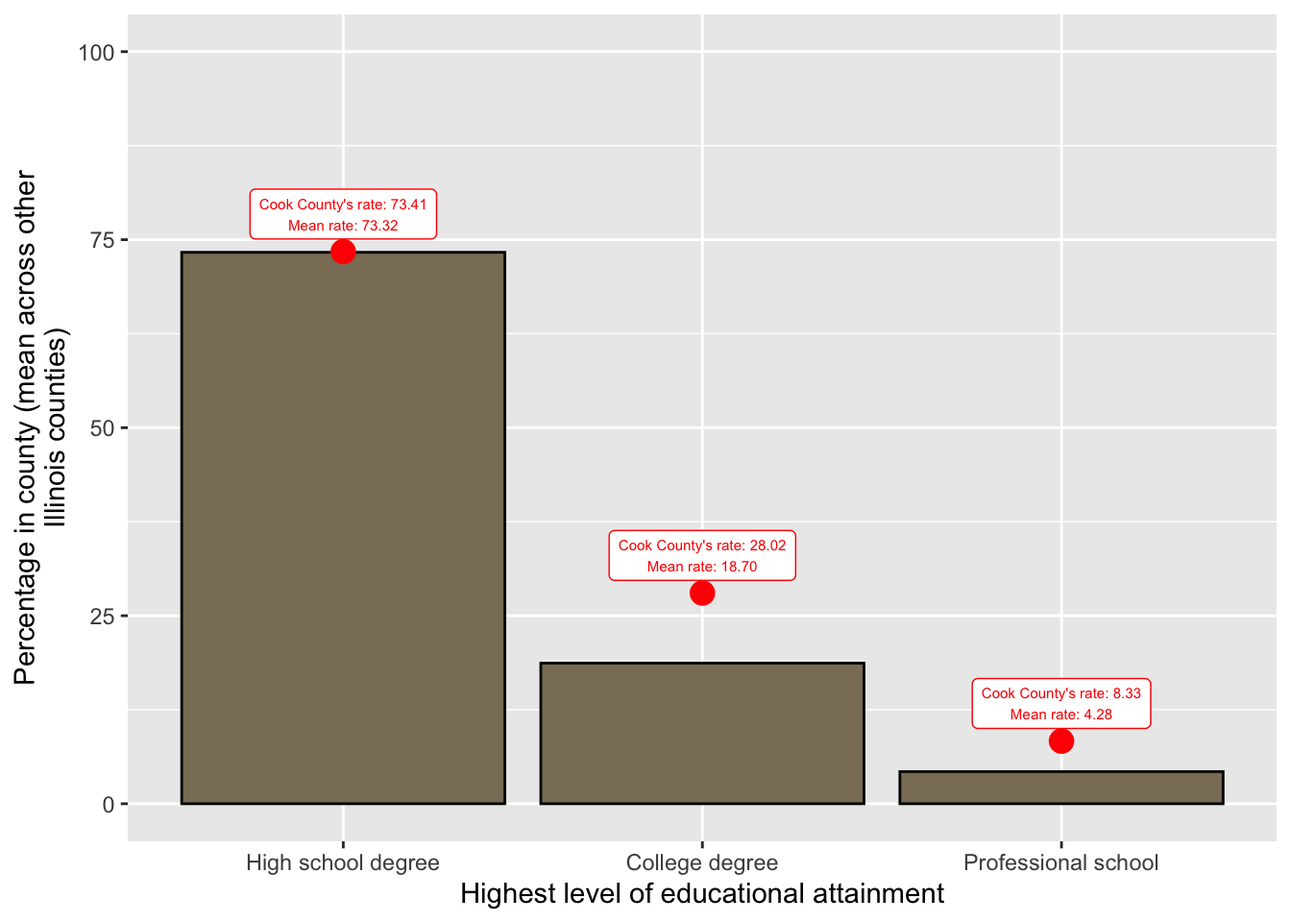
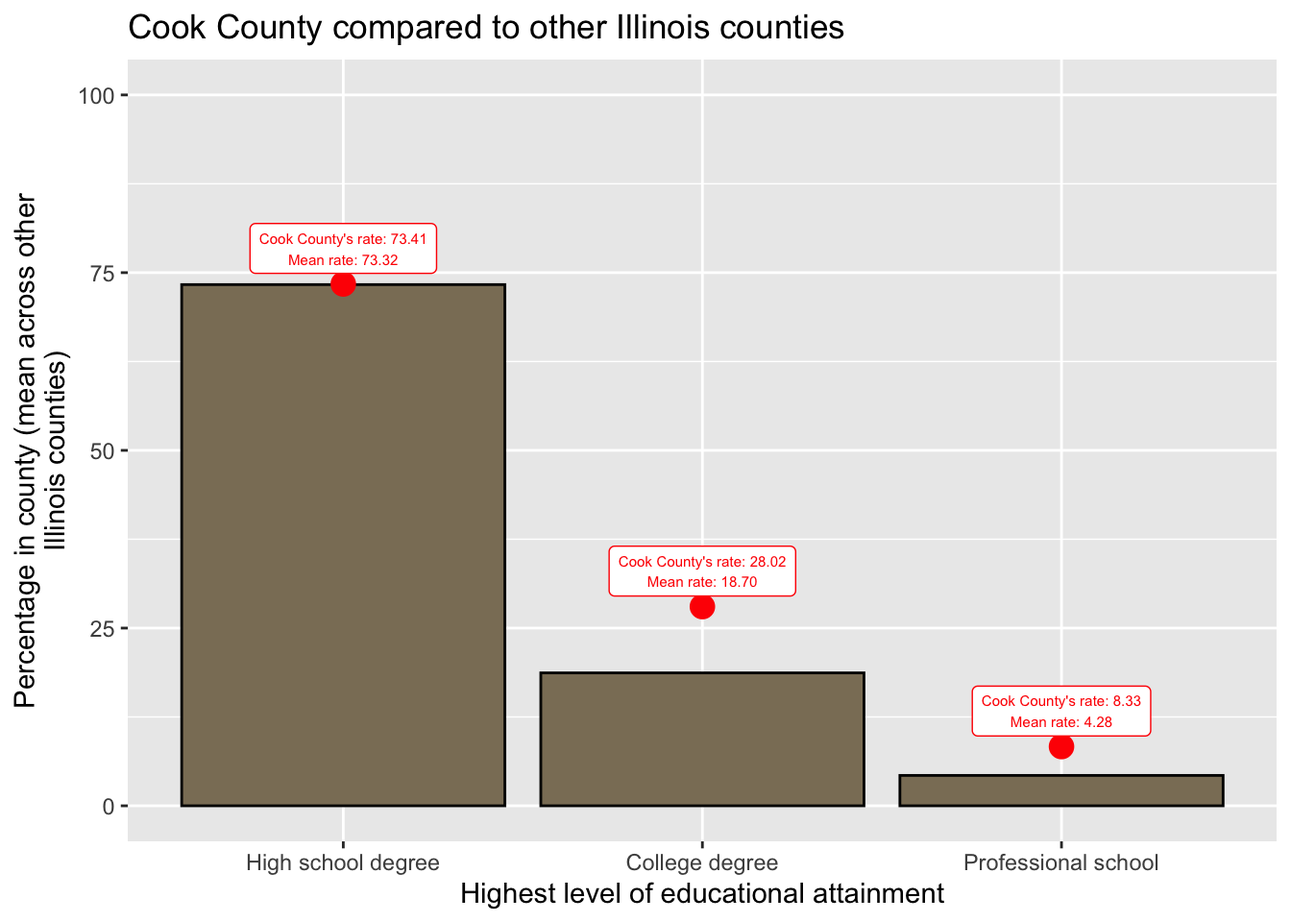
update plot title

diff --git a/fall_2024/activities/solutions/01_ggplot2automation_solutions.html b/fall_2024/activities/solutions/01_ggplot2automation_solutions.html
@@ -20,40 +20,6 @@ ul.task-list li input[type="checkbox"] {
   margin: 0 0.8em 0.2em -1em; /* quarto-specific, see https://github.com/quarto-dev/quarto-cli/issues/4556 */ 
   vertical-align: middle;
 }
-/* CSS for syntax highlighting */
-pre > code.sourceCode { white-space: pre; position: relative; }
-pre > code.sourceCode > span { line-height: 1.25; }
-pre > code.sourceCode > span:empty { height: 1.2em; }
-.sourceCode { overflow: visible; }
-code.sourceCode > span { color: inherit; text-decoration: inherit; }
-div.sourceCode { margin: 1em 0; }
-pre.sourceCode { margin: 0; }
-@media screen {
-div.sourceCode { overflow: auto; }
-}
-@media print {
-pre > code.sourceCode { white-space: pre-wrap; }
-pre > code.sourceCode > span { display: inline-block; text-indent: -5em; padding-left: 5em; }
-}
-pre.numberSource code
-  { counter-reset: source-line 0; }
-pre.numberSource code > span
-  { position: relative; left: -4em; counter-increment: source-line; }
-pre.numberSource code > span > a:first-child::before
-  { content: counter(source-line);
-    position: relative; left: -1em; text-align: right; vertical-align: baseline;
-    border: none; display: inline-block;
-    -webkit-touch-callout: none; -webkit-user-select: none;
-    -khtml-user-select: none; -moz-user-select: none;
-    -ms-user-select: none; user-select: none;
-    padding: 0 4px; width: 4em;
-  }
-pre.numberSource { margin-left: 3em;  padding-left: 4px; }
-div.sourceCode
-  {   }
-@media screen {
-pre > code.sourceCode > span > a:first-child::before { text-decoration: underline; }
-}
 </style>
 
 
@@ -98,11 +64,9 @@ pre > code.sourceCode > span > a:first-child::before { text-decoration: underlin
 
 <section id="automation" class="level1">
 <h1>Automation</h1>
-<p>In this activity, you’ll work with a group to produce the following:</p>
-<ol type="1">
-<li><p>A template that can be used to compare a focal county’s demographic statistics to other counties in that state</p></li>
-<li><p>Use that template to create a separate report for 4 distinct counties</p></li>
-</ol>
+<p>In this activity, you’ll work to produce the following:</p>
+<p>A template that can be used to compare a focal county’s demographic statistics to other counties in that state</p>
+<p>Use that template to create a separate report for 3 distinct counties</p>
 <section id="exercise-1-create-a-plot-for-a-single-county" class="level2">
 <h2 class="anchored" data-anchor-id="exercise-1-create-a-plot-for-a-single-county">Exercise 1: create a plot for a single county</h2>
 <ul>
@@ -117,58 +81,6 @@ pre > code.sourceCode > span > a:first-child::before { text-decoration: underlin
 <li>Adds a dot + label to that bar graph with the focal county’s own statistics (at the rough height of where that statistic falls along the <code>y axis</code>) compared to the mean value</li>
 </ul>
 <div class="cell">
-<div class="sourceCode cell-code" id="cb1"><pre class="sourceCode r code-with-copy"><code class="sourceCode r"><span id="cb1-1"><a href="#cb1-1" aria-hidden="true" tabindex="-1"></a><span class="fu">library</span>(tidyverse)</span>
-<span id="cb1-2"><a href="#cb1-2" aria-hidden="true" tabindex="-1"></a><span class="fu">library</span>(ggplot2)</span>
-<span id="cb1-3"><a href="#cb1-3" aria-hidden="true" tabindex="-1"></a><span class="fu">library</span>(reshape2)</span>
-<span id="cb1-4"><a href="#cb1-4" aria-hidden="true" tabindex="-1"></a></span>
-<span id="cb1-5"><a href="#cb1-5" aria-hidden="true" tabindex="-1"></a>stats_comparison <span class="ot">&lt;-</span> <span class="fu">rbind.data.frame</span>(midwest <span class="sc">%&gt;%</span></span>
-<span id="cb1-6"><a href="#cb1-6" aria-hidden="true" tabindex="-1"></a>            <span class="fu">filter</span>(state <span class="sc">==</span> <span class="st">"IL"</span> <span class="sc">&amp;</span> county <span class="sc">!=</span> <span class="st">"COOK"</span>) <span class="sc">%&gt;%</span></span>
-<span id="cb1-7"><a href="#cb1-7" aria-hidden="true" tabindex="-1"></a>            <span class="fu">summarise</span>(<span class="at">hsd =</span> <span class="fu">mean</span>(perchsd), <span class="at">college =</span>  <span class="fu">mean</span>(percollege), </span>
-<span id="cb1-8"><a href="#cb1-8" aria-hidden="true" tabindex="-1"></a>                      <span class="at">professional =</span> <span class="fu">mean</span>(percprof)) <span class="sc">%&gt;%</span></span>
-<span id="cb1-9"><a href="#cb1-9" aria-hidden="true" tabindex="-1"></a>            <span class="fu">mutate</span>(<span class="at">category =</span> <span class="st">"other"</span>),</span>
-<span id="cb1-10"><a href="#cb1-10" aria-hidden="true" tabindex="-1"></a>            midwest <span class="sc">%&gt;%</span></span>
-<span id="cb1-11"><a href="#cb1-11" aria-hidden="true" tabindex="-1"></a>            <span class="fu">filter</span>(state <span class="sc">==</span> <span class="st">"IL"</span> <span class="sc">&amp;</span> county <span class="sc">==</span> <span class="st">"COOK"</span>) <span class="sc">%&gt;%</span></span>
-<span id="cb1-12"><a href="#cb1-12" aria-hidden="true" tabindex="-1"></a>            <span class="fu">summarise</span>(<span class="at">hsd =</span> <span class="fu">mean</span>(perchsd), <span class="at">college =</span>  <span class="fu">mean</span>(percollege), </span>
-<span id="cb1-13"><a href="#cb1-13" aria-hidden="true" tabindex="-1"></a>                      <span class="at">professional =</span> <span class="fu">mean</span>(percprof)) <span class="sc">%&gt;%</span></span>
-<span id="cb1-14"><a href="#cb1-14" aria-hidden="true" tabindex="-1"></a>            <span class="fu">mutate</span>(<span class="at">category =</span> <span class="st">"COOK"</span>)) <span class="sc">%&gt;%</span></span>
-<span id="cb1-15"><a href="#cb1-15" aria-hidden="true" tabindex="-1"></a>            reshape2<span class="sc">::</span><span class="fu">melt</span>(., <span class="at">id.vars =</span> <span class="st">"category"</span>) <span class="sc">%&gt;%</span></span>
-<span id="cb1-16"><a href="#cb1-16" aria-hidden="true" tabindex="-1"></a>            <span class="fu">mutate</span>(<span class="at">variable_descriptive =</span> </span>
-<span id="cb1-17"><a href="#cb1-17" aria-hidden="true" tabindex="-1"></a>            <span class="fu">factor</span>(<span class="fu">case_when</span>(variable <span class="sc">==</span> <span class="st">"hsd"</span> <span class="sc">~</span> <span class="st">"High school degree"</span>,</span>
-<span id="cb1-18"><a href="#cb1-18" aria-hidden="true" tabindex="-1"></a>                      variable <span class="sc">==</span> <span class="st">"college"</span> <span class="sc">~</span> <span class="st">"College degree"</span>,</span>
-<span id="cb1-19"><a href="#cb1-19" aria-hidden="true" tabindex="-1"></a>                      variable <span class="sc">==</span> <span class="st">"professional"</span> <span class="sc">~</span> <span class="st">"Professional school"</span>),</span>
-<span id="cb1-20"><a href="#cb1-20" aria-hidden="true" tabindex="-1"></a>                <span class="at">levels =</span> <span class="fu">c</span>(<span class="st">"High school degree"</span>,</span>
-<span id="cb1-21"><a href="#cb1-21" aria-hidden="true" tabindex="-1"></a>                           <span class="st">"College degree"</span>,</span>
-<span id="cb1-22"><a href="#cb1-22" aria-hidden="true" tabindex="-1"></a>                           <span class="st">"Professional school"</span>),</span>
-<span id="cb1-23"><a href="#cb1-23" aria-hidden="true" tabindex="-1"></a>                <span class="at">ordered =</span> <span class="cn">TRUE</span>)) </span>
-<span id="cb1-24"><a href="#cb1-24" aria-hidden="true" tabindex="-1"></a></span>
-<span id="cb1-25"><a href="#cb1-25" aria-hidden="true" tabindex="-1"></a>stats_toplot <span class="ot">&lt;-</span> stats_comparison <span class="sc">%&gt;%</span></span>
-<span id="cb1-26"><a href="#cb1-26" aria-hidden="true" tabindex="-1"></a>          <span class="fu">left_join</span>(stats_comparison <span class="sc">%&gt;%</span> <span class="fu">filter</span>(category <span class="sc">==</span> <span class="st">"other"</span>) </span>
-<span id="cb1-27"><a href="#cb1-27" aria-hidden="true" tabindex="-1"></a>                  <span class="sc">%&gt;%</span> <span class="fu">rename</span>(<span class="at">mean_value =</span> value) <span class="sc">%&gt;%</span></span>
-<span id="cb1-28"><a href="#cb1-28" aria-hidden="true" tabindex="-1"></a>                  <span class="fu">select</span>(variable, mean_value),</span>
-<span id="cb1-29"><a href="#cb1-29" aria-hidden="true" tabindex="-1"></a>                  <span class="at">by =</span> <span class="st">"variable"</span>) </span>
-<span id="cb1-30"><a href="#cb1-30" aria-hidden="true" tabindex="-1"></a></span>
-<span id="cb1-31"><a href="#cb1-31" aria-hidden="true" tabindex="-1"></a>            </span>
-<span id="cb1-32"><a href="#cb1-32" aria-hidden="true" tabindex="-1"></a><span class="fu">ggplot</span>(stats_toplot <span class="sc">%&gt;%</span> <span class="fu">filter</span>(category <span class="sc">==</span> <span class="st">"other"</span>), </span>
-<span id="cb1-33"><a href="#cb1-33" aria-hidden="true" tabindex="-1"></a>       <span class="fu">aes</span>(<span class="at">x =</span> variable_descriptive, </span>
-<span id="cb1-34"><a href="#cb1-34" aria-hidden="true" tabindex="-1"></a>                            <span class="at">y =</span> value)) <span class="sc">+</span></span>
-<span id="cb1-35"><a href="#cb1-35" aria-hidden="true" tabindex="-1"></a>  <span class="fu">geom_bar</span>(<span class="at">stat =</span> <span class="st">"identity"</span>, <span class="at">color =</span> <span class="st">"black"</span>, </span>
-<span id="cb1-36"><a href="#cb1-36" aria-hidden="true" tabindex="-1"></a>           <span class="at">fill =</span> <span class="st">"wheat4"</span>) <span class="sc">+</span></span>
-<span id="cb1-37"><a href="#cb1-37" aria-hidden="true" tabindex="-1"></a>  <span class="fu">xlab</span>(<span class="st">"Highest level of educational attainment"</span>) <span class="sc">+</span></span>
-<span id="cb1-38"><a href="#cb1-38" aria-hidden="true" tabindex="-1"></a>  <span class="fu">ylab</span>(<span class="st">"Percentage in county (mean across other</span><span class="sc">\n</span><span class="st">Illinois counties)"</span>) <span class="sc">+</span></span>
-<span id="cb1-39"><a href="#cb1-39" aria-hidden="true" tabindex="-1"></a>  <span class="fu">geom_point</span>(<span class="at">data =</span> stats_toplot <span class="sc">%&gt;%</span> <span class="fu">filter</span>(category <span class="sc">!=</span> <span class="st">"other"</span>),</span>
-<span id="cb1-40"><a href="#cb1-40" aria-hidden="true" tabindex="-1"></a>             <span class="fu">aes</span>(<span class="at">x =</span> variable_descriptive, </span>
-<span id="cb1-41"><a href="#cb1-41" aria-hidden="true" tabindex="-1"></a>                 <span class="at">y =</span> value),</span>
-<span id="cb1-42"><a href="#cb1-42" aria-hidden="true" tabindex="-1"></a>             <span class="at">color =</span> <span class="st">"red"</span>, <span class="at">size =</span> <span class="dv">4</span>) <span class="sc">+</span></span>
-<span id="cb1-43"><a href="#cb1-43" aria-hidden="true" tabindex="-1"></a>  <span class="fu">geom_label</span>(<span class="at">data =</span> stats_toplot <span class="sc">%&gt;%</span> <span class="fu">filter</span>(category <span class="sc">!=</span> <span class="st">"other"</span>),</span>
-<span id="cb1-44"><a href="#cb1-44" aria-hidden="true" tabindex="-1"></a>             <span class="fu">aes</span>(<span class="at">x =</span> variable_descriptive, </span>
-<span id="cb1-45"><a href="#cb1-45" aria-hidden="true" tabindex="-1"></a>                 <span class="at">y =</span> value, </span>
-<span id="cb1-46"><a href="#cb1-46" aria-hidden="true" tabindex="-1"></a>                 <span class="at">label =</span> <span class="fu">sprintf</span>(<span class="st">"Cook County's rate: %.2f</span><span class="sc">\n</span><span class="st">Mean rate: %.2f"</span>,</span>
-<span id="cb1-47"><a href="#cb1-47" aria-hidden="true" tabindex="-1"></a>                                 value, </span>
-<span id="cb1-48"><a href="#cb1-48" aria-hidden="true" tabindex="-1"></a>                                 mean_value)),</span>
-<span id="cb1-49"><a href="#cb1-49" aria-hidden="true" tabindex="-1"></a>          <span class="at">color =</span> <span class="st">"red"</span>,</span>
-<span id="cb1-50"><a href="#cb1-50" aria-hidden="true" tabindex="-1"></a>          <span class="at">size =</span> <span class="dv">2</span>,</span>
-<span id="cb1-51"><a href="#cb1-51" aria-hidden="true" tabindex="-1"></a>          <span class="at">nudge_y =</span> <span class="dv">5</span>) <span class="sc">+</span></span>
-<span id="cb1-52"><a href="#cb1-52" aria-hidden="true" tabindex="-1"></a>  <span class="fu">ylim</span>(<span class="dv">0</span>, <span class="dv">100</span>)</span></code><button title="Copy to Clipboard" class="code-copy-button"><i class="bi"></i></button></pre></div>
 <div class="cell-output-display">
 <div>
 <figure class="figure">
@@ -182,67 +94,6 @@ pre > code.sourceCode > span > a:first-child::before { text-decoration: underlin
 <h2 class="anchored" data-anchor-id="exercise-2-generalize-to-create-a-county-comparison-function">Exercise 2: generalize to create a county comparison function</h2>
 <p>Write a function that generalizes the plot from exercise 1 by: - Taking in two parameters: county + state - Finding the remaining counties in that state - Creating the same plot as above (making sure to label the county-specific rate appropriately with the county’s name) - Test the function on a few different counties from different states</p>
 <div class="cell">
-<div class="sourceCode cell-code" id="cb2"><pre class="sourceCode r code-with-copy"><code class="sourceCode r"><span id="cb2-1"><a href="#cb2-1" aria-hidden="true" tabindex="-1"></a><span class="fu">library</span>(tidyverse)</span>
-<span id="cb2-2"><a href="#cb2-2" aria-hidden="true" tabindex="-1"></a><span class="fu">library</span>(ggplot2)</span>
-<span id="cb2-3"><a href="#cb2-3" aria-hidden="true" tabindex="-1"></a><span class="fu">library</span>(stringr)</span>
-<span id="cb2-4"><a href="#cb2-4" aria-hidden="true" tabindex="-1"></a></span>
-<span id="cb2-5"><a href="#cb2-5" aria-hidden="true" tabindex="-1"></a>comparison_plot <span class="ot">&lt;-</span> <span class="cf">function</span>(state_name, county_name){</span>
-<span id="cb2-6"><a href="#cb2-6" aria-hidden="true" tabindex="-1"></a>  </span>
-<span id="cb2-7"><a href="#cb2-7" aria-hidden="true" tabindex="-1"></a>  stats_comparison <span class="ot">&lt;-</span> <span class="fu">rbind.data.frame</span>(midwest <span class="sc">%&gt;%</span></span>
-<span id="cb2-8"><a href="#cb2-8" aria-hidden="true" tabindex="-1"></a>            <span class="fu">filter</span>(state <span class="sc">==</span> state_name <span class="sc">&amp;</span> county <span class="sc">!=</span> county_name) <span class="sc">%&gt;%</span></span>
-<span id="cb2-9"><a href="#cb2-9" aria-hidden="true" tabindex="-1"></a>            <span class="fu">summarise</span>(<span class="at">hsd =</span> <span class="fu">mean</span>(perchsd), <span class="at">college =</span>  <span class="fu">mean</span>(percollege), </span>
-<span id="cb2-10"><a href="#cb2-10" aria-hidden="true" tabindex="-1"></a>                      <span class="at">professional =</span> <span class="fu">mean</span>(percprof)) <span class="sc">%&gt;%</span></span>
-<span id="cb2-11"><a href="#cb2-11" aria-hidden="true" tabindex="-1"></a>            <span class="fu">mutate</span>(<span class="at">category =</span> <span class="st">"other"</span>),</span>
-<span id="cb2-12"><a href="#cb2-12" aria-hidden="true" tabindex="-1"></a>            midwest <span class="sc">%&gt;%</span></span>
-<span id="cb2-13"><a href="#cb2-13" aria-hidden="true" tabindex="-1"></a>            <span class="fu">filter</span>(state <span class="sc">==</span> state_name <span class="sc">&amp;</span> county <span class="sc">==</span> county_name) <span class="sc">%&gt;%</span></span>
-<span id="cb2-14"><a href="#cb2-14" aria-hidden="true" tabindex="-1"></a>            <span class="fu">summarise</span>(<span class="at">hsd =</span> <span class="fu">mean</span>(perchsd), <span class="at">college =</span>  <span class="fu">mean</span>(percollege), </span>
-<span id="cb2-15"><a href="#cb2-15" aria-hidden="true" tabindex="-1"></a>                      <span class="at">professional =</span> <span class="fu">mean</span>(percprof)) <span class="sc">%&gt;%</span></span>
-<span id="cb2-16"><a href="#cb2-16" aria-hidden="true" tabindex="-1"></a>            <span class="fu">mutate</span>(<span class="at">category =</span> county_name)) <span class="sc">%&gt;%</span></span>
-<span id="cb2-17"><a href="#cb2-17" aria-hidden="true" tabindex="-1"></a>            reshape2<span class="sc">::</span><span class="fu">melt</span>(., <span class="at">id.vars =</span> <span class="st">"category"</span>) <span class="sc">%&gt;%</span></span>
-<span id="cb2-18"><a href="#cb2-18" aria-hidden="true" tabindex="-1"></a>            <span class="fu">mutate</span>(<span class="at">variable_descriptive =</span> </span>
-<span id="cb2-19"><a href="#cb2-19" aria-hidden="true" tabindex="-1"></a>            <span class="fu">factor</span>(<span class="fu">case_when</span>(variable <span class="sc">==</span> <span class="st">"hsd"</span> <span class="sc">~</span> <span class="st">"High school degree"</span>,</span>
-<span id="cb2-20"><a href="#cb2-20" aria-hidden="true" tabindex="-1"></a>                      variable <span class="sc">==</span> <span class="st">"college"</span> <span class="sc">~</span> <span class="st">"College degree"</span>,</span>
-<span id="cb2-21"><a href="#cb2-21" aria-hidden="true" tabindex="-1"></a>                      variable <span class="sc">==</span> <span class="st">"professional"</span> <span class="sc">~</span> <span class="st">"Professional school"</span>),</span>
-<span id="cb2-22"><a href="#cb2-22" aria-hidden="true" tabindex="-1"></a>                <span class="at">levels =</span> <span class="fu">c</span>(<span class="st">"High school degree"</span>,</span>
-<span id="cb2-23"><a href="#cb2-23" aria-hidden="true" tabindex="-1"></a>                           <span class="st">"College degree"</span>,</span>
-<span id="cb2-24"><a href="#cb2-24" aria-hidden="true" tabindex="-1"></a>                           <span class="st">"Professional school"</span>),</span>
-<span id="cb2-25"><a href="#cb2-25" aria-hidden="true" tabindex="-1"></a>                <span class="at">ordered =</span> <span class="cn">TRUE</span>)) </span>
-<span id="cb2-26"><a href="#cb2-26" aria-hidden="true" tabindex="-1"></a>  </span>
-<span id="cb2-27"><a href="#cb2-27" aria-hidden="true" tabindex="-1"></a>  stats_toplot <span class="ot">&lt;-</span> stats_comparison <span class="sc">%&gt;%</span></span>
-<span id="cb2-28"><a href="#cb2-28" aria-hidden="true" tabindex="-1"></a>          <span class="fu">left_join</span>(stats_comparison <span class="sc">%&gt;%</span> <span class="fu">filter</span>(category <span class="sc">==</span> <span class="st">"other"</span>) </span>
-<span id="cb2-29"><a href="#cb2-29" aria-hidden="true" tabindex="-1"></a>                  <span class="sc">%&gt;%</span> <span class="fu">rename</span>(<span class="at">mean_value =</span> value) <span class="sc">%&gt;%</span></span>
-<span id="cb2-30"><a href="#cb2-30" aria-hidden="true" tabindex="-1"></a>                  <span class="fu">select</span>(variable, mean_value),</span>
-<span id="cb2-31"><a href="#cb2-31" aria-hidden="true" tabindex="-1"></a>                  <span class="at">by =</span> <span class="st">"variable"</span>) </span>
-<span id="cb2-32"><a href="#cb2-32" aria-hidden="true" tabindex="-1"></a>  </span>
-<span id="cb2-33"><a href="#cb2-33" aria-hidden="true" tabindex="-1"></a>  p <span class="ot">&lt;-</span> <span class="fu">ggplot</span>(stats_toplot <span class="sc">%&gt;%</span> <span class="fu">filter</span>(category <span class="sc">==</span> <span class="st">"other"</span>), </span>
-<span id="cb2-34"><a href="#cb2-34" aria-hidden="true" tabindex="-1"></a>       <span class="fu">aes</span>(<span class="at">x =</span> variable_descriptive, </span>
-<span id="cb2-35"><a href="#cb2-35" aria-hidden="true" tabindex="-1"></a>                            <span class="at">y =</span> value)) <span class="sc">+</span></span>
-<span id="cb2-36"><a href="#cb2-36" aria-hidden="true" tabindex="-1"></a>  <span class="fu">geom_bar</span>(<span class="at">stat =</span> <span class="st">"identity"</span>, <span class="at">color =</span> <span class="st">"black"</span>, </span>
-<span id="cb2-37"><a href="#cb2-37" aria-hidden="true" tabindex="-1"></a>           <span class="at">fill =</span> <span class="st">"wheat4"</span>) <span class="sc">+</span></span>
-<span id="cb2-38"><a href="#cb2-38" aria-hidden="true" tabindex="-1"></a>  <span class="fu">xlab</span>(<span class="st">"Highest level of educational attainment"</span>) <span class="sc">+</span></span>
-<span id="cb2-39"><a href="#cb2-39" aria-hidden="true" tabindex="-1"></a>  <span class="fu">ylab</span>(<span class="fu">sprintf</span>(<span class="st">"Percentage in county (mean across other</span><span class="sc">\n</span><span class="st">%s counties)"</span>,</span>
-<span id="cb2-40"><a href="#cb2-40" aria-hidden="true" tabindex="-1"></a>      state.name[state.abb <span class="sc">==</span> state_name])) <span class="sc">+</span></span>
-<span id="cb2-41"><a href="#cb2-41" aria-hidden="true" tabindex="-1"></a>  <span class="fu">geom_point</span>(<span class="at">data =</span> stats_toplot <span class="sc">%&gt;%</span> <span class="fu">filter</span>(category <span class="sc">!=</span> <span class="st">"other"</span>),</span>
-<span id="cb2-42"><a href="#cb2-42" aria-hidden="true" tabindex="-1"></a>             <span class="fu">aes</span>(<span class="at">x =</span> variable_descriptive, </span>
-<span id="cb2-43"><a href="#cb2-43" aria-hidden="true" tabindex="-1"></a>                 <span class="at">y =</span> value),</span>
-<span id="cb2-44"><a href="#cb2-44" aria-hidden="true" tabindex="-1"></a>             <span class="at">color =</span> <span class="st">"red"</span>, <span class="at">size =</span> <span class="dv">4</span>) <span class="sc">+</span></span>
-<span id="cb2-45"><a href="#cb2-45" aria-hidden="true" tabindex="-1"></a>  <span class="fu">geom_label</span>(<span class="at">data =</span> stats_toplot <span class="sc">%&gt;%</span> <span class="fu">filter</span>(category <span class="sc">!=</span> <span class="st">"other"</span>),</span>
-<span id="cb2-46"><a href="#cb2-46" aria-hidden="true" tabindex="-1"></a>             <span class="fu">aes</span>(<span class="at">x =</span> variable_descriptive, </span>
-<span id="cb2-47"><a href="#cb2-47" aria-hidden="true" tabindex="-1"></a>                 <span class="at">y =</span> value, </span>
-<span id="cb2-48"><a href="#cb2-48" aria-hidden="true" tabindex="-1"></a>                 <span class="at">label =</span> <span class="fu">sprintf</span>(<span class="st">"%s county's rate: %.2f</span><span class="sc">\n</span><span class="st">Mean rate: %.2f"</span>,</span>
-<span id="cb2-49"><a href="#cb2-49" aria-hidden="true" tabindex="-1"></a>                                 <span class="fu">str_to_title</span>(county_name),</span>
-<span id="cb2-50"><a href="#cb2-50" aria-hidden="true" tabindex="-1"></a>                                 value, </span>
-<span id="cb2-51"><a href="#cb2-51" aria-hidden="true" tabindex="-1"></a>                                 mean_value)),</span>
-<span id="cb2-52"><a href="#cb2-52" aria-hidden="true" tabindex="-1"></a>          <span class="at">color =</span> <span class="st">"red"</span>,</span>
-<span id="cb2-53"><a href="#cb2-53" aria-hidden="true" tabindex="-1"></a>          <span class="at">size =</span> <span class="dv">2</span>,</span>
-<span id="cb2-54"><a href="#cb2-54" aria-hidden="true" tabindex="-1"></a>          <span class="at">nudge_y =</span> <span class="dv">5</span>) <span class="sc">+</span></span>
-<span id="cb2-55"><a href="#cb2-55" aria-hidden="true" tabindex="-1"></a>  <span class="fu">ylim</span>(<span class="dv">0</span>, <span class="dv">100</span>)</span>
-<span id="cb2-56"><a href="#cb2-56" aria-hidden="true" tabindex="-1"></a>  </span>
-<span id="cb2-57"><a href="#cb2-57" aria-hidden="true" tabindex="-1"></a>  <span class="fu">return</span>(p)</span>
-<span id="cb2-58"><a href="#cb2-58" aria-hidden="true" tabindex="-1"></a>  </span>
-<span id="cb2-59"><a href="#cb2-59" aria-hidden="true" tabindex="-1"></a>}</span>
-<span id="cb2-60"><a href="#cb2-60" aria-hidden="true" tabindex="-1"></a></span>
-<span id="cb2-61"><a href="#cb2-61" aria-hidden="true" tabindex="-1"></a><span class="fu">comparison_plot</span>(<span class="at">state_name =</span> <span class="st">"IL"</span>, <span class="at">county_name =</span> <span class="st">"COOK"</span>)</span></code><button title="Copy to Clipboard" class="code-copy-button"><i class="bi"></i></button></pre></div>
 <div class="cell-output-display">
 <div>
 <figure class="figure">
@@ -250,7 +101,6 @@ pre > code.sourceCode > span > a:first-child::before { text-decoration: underlin
 </figure>
 </div>
 </div>
-<div class="sourceCode cell-code" id="cb3"><pre class="sourceCode r code-with-copy"><code class="sourceCode r"><span id="cb3-1"><a href="#cb3-1" aria-hidden="true" tabindex="-1"></a><span class="fu">comparison_plot</span>(<span class="at">state_name =</span> <span class="st">"WI"</span>, <span class="at">county_name =</span> <span class="st">"DANE"</span>)</span></code><button title="Copy to Clipboard" class="code-copy-button"><i class="bi"></i></button></pre></div>
 <div class="cell-output-display">
 <div>
 <figure class="figure">
@@ -258,7 +108,6 @@ pre > code.sourceCode > span > a:first-child::before { text-decoration: underlin
 </figure>
 </div>
 </div>
-<div class="sourceCode cell-code" id="cb4"><pre class="sourceCode r code-with-copy"><code class="sourceCode r"><span id="cb4-1"><a href="#cb4-1" aria-hidden="true" tabindex="-1"></a><span class="fu">comparison_plot</span>(<span class="at">state_name =</span> <span class="st">"MI"</span>, <span class="at">county_name =</span> <span class="st">"WASHTENAW"</span>)</span></code><button title="Copy to Clipboard" class="code-copy-button"><i class="bi"></i></button></pre></div>
 <div class="cell-output-display">
 <div>
 <figure class="figure">
@@ -277,7 +126,8 @@ pre > code.sourceCode > span > a:first-child::before { text-decoration: underlin
 <li>“COOK”</li>
 <li>“CHAMPAIGN”</li>
 <li>“LAKE”</li>
-</ul></li>
+</ul>
+See other file for solutions</li>
 </ul>
 </section>
 </section>
